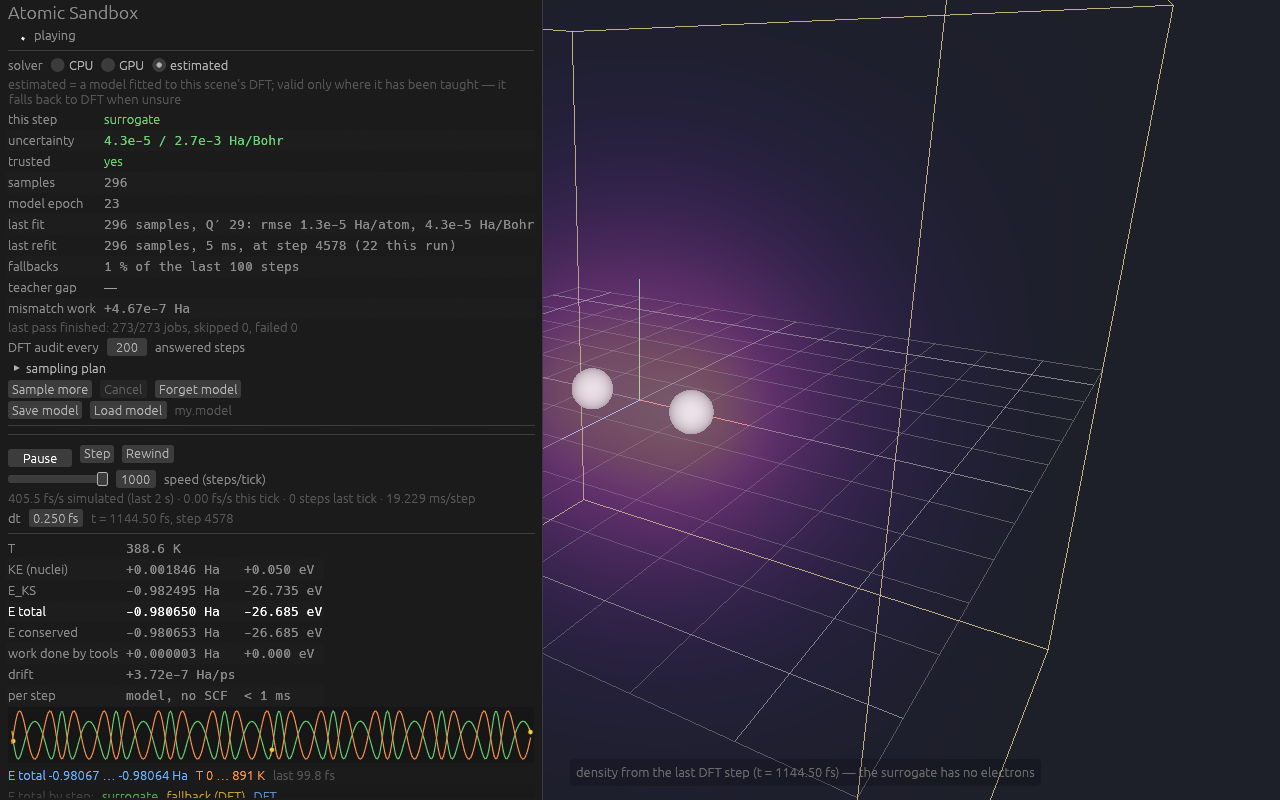
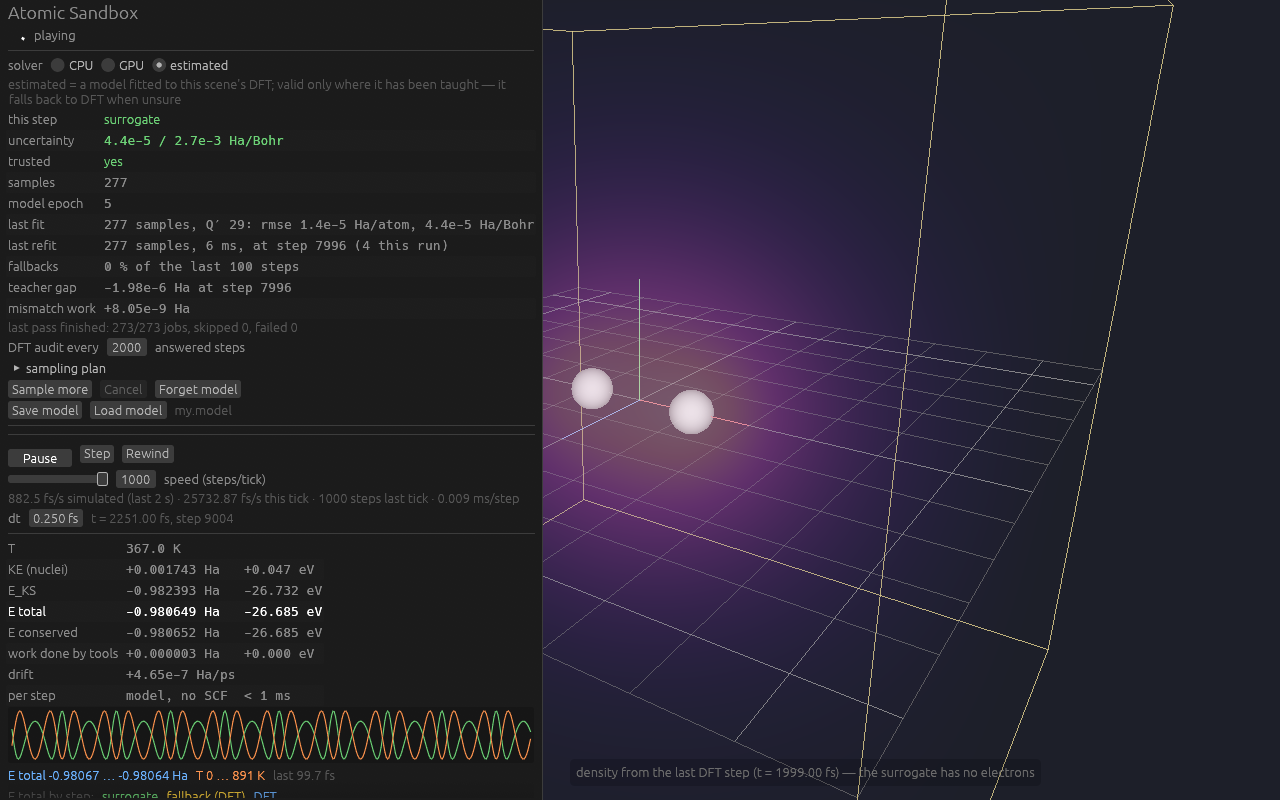
docs: Task 8 fix round 1 — audit default 2000, pacing / watchable / smooth motion in the README controls, checklist rows, screenshot re-shot while playing

diff --git a/README.md b/README.md
@@ -20,7 +20,7 @@ The sandbox now **moves**: the nuclei are classical particles pushed by the Kohn
 
 ![H₂ vibrating: the panel's sparkline shows E total and T over the last 50 fs](docs/images/dynamics_h2_vibration.png)
 
-**Estimated mode (M5).** Pick **estimated** as the solver and the viewer first *teaches* a surrogate on the scene: a sampling pass (about half a minute for H₂ at 49³ — 273 DFT solves: isolated-atom references, random perturbations, a bond scan and a hot MD burst) fits a linear model of the energy with a Bayesian uncertainty. From then on each MD step asks the model; when its uncertainty is above the threshold, or the geometry is outside what it was taught, the step goes to DFT instead (a **fallback**, shown amber), and that answer becomes a new training sample — the model learns as you play. The validation suite (`crates/validate/tests/surrogate.rs`) measures it against its teacher: the H₂ vibration frequency within 7e-6 of the DFT-MD value, energies within 2.5e-6 Ha and forces within 2e-5 Ha/Bohr (rms) on fresh geometries, and an active-learning run from nothing that needs only 38 DFT calls in 300 steps. The model alone runs at **10⁵ steps/s** against ~10 DFT steps/s. In the viewer one DFT **audit** every 200 answered steps (a safety check: the teacher answers and the gap is compared) sets the pace — ≈ 300–400 fs/s at the default; raise the audit interval to 2000 for ≈ 3300 fs/s, or switch audits off (unsafe) for ≈ 30 000 fs/s (1.2e5 steps/s), all with the window at full frame rate (p95 frame interval 5 ms). A surrogate step has no electrons, so the cloud you see is the last DFT density, drawn faded and labelled with its time.
+**Estimated mode (M5).** Pick **estimated** as the solver and the viewer first *teaches* a surrogate on the scene: a sampling pass (about half a minute for H₂ at 49³ — 273 DFT solves: isolated-atom references, random perturbations, a bond scan and a hot MD burst) fits a linear model of the energy with a Bayesian uncertainty. From then on each MD step asks the model; when its uncertainty is above the threshold, or the geometry is outside what it was taught, the step goes to DFT instead (a **fallback**, shown amber), and that answer becomes a new training sample — the model learns as you play. The validation suite (`crates/validate/tests/surrogate.rs`) measures it against its teacher: the H₂ vibration frequency within 7e-6 of the DFT-MD value, energies within 2.5e-6 Ha and forces within 2e-5 Ha/Bohr (rms) on fresh geometries, and an active-learning run from nothing that needs only 38 DFT calls in 300 steps. The model alone runs at **10⁵ steps/s** against ~10 DFT steps/s. In the viewer one DFT **audit** every 2000 answered steps (a safety check: the teacher answers and the gap is compared; the interim default — at 200 it was ≈ 300–400 fs/s) sets the pace: ≈ 3300 fs/s in the window (4 000 fs/s headless at 41³); switching audits off (unsafe) gives ≈ 30 000 fs/s (1.2e5 steps/s), all with the window at full frame rate (p95 frame interval 5 ms). A surrogate step has no electrons, so the cloud you see is the last DFT density, drawn faded and labelled with its time.
 
 ![Estimated H₂: the model answers (green), the sparkline is coloured by who answered each step, the cloud is the last DFT density](docs/images/surrogate_h2.png)
 
@@ -34,7 +34,7 @@ Requirements: Rust (stable, 1.99 or newer), a Vulkan/DX12/Metal-capable GPU for 
 cargo run -p app --release
 ```
 
-Options: `-- --preset h2o` (presets: `h`, `h2`, `he`, `lih`, `h2o`), `-- --backend cpu` (the f64 reference: one MD step takes seconds), `-- --estimated` (start on the estimated solver: its sampling pass begins at once), `-- --speed 1000` (the steps-per-tick slider's start value), `-- --audit 2000` (the estimated solver's DFT audit interval; default 200, 0 = never). Always build `--release`; debug builds are far too slow for the solver.
+Options: `-- --preset h2o` (presets: `h`, `h2`, `he`, `lih`, `h2o`), `-- --backend cpu` (the f64 reference: one MD step takes seconds), `-- --estimated` (start on the estimated solver: its sampling pass begins at once), `-- --speed 1000` (the steps-per-tick slider's start value), `-- --audit 200` (the estimated solver's DFT audit interval; default 2000, 0 = never). Always build `--release`; debug builds are far too slow for the solver.
 
 ### Controls
 
@@ -48,19 +48,19 @@ Options: `-- --preset h2o` (presets: `h`, `h2`, `he`, `lih`, `h2o`), `-- --backe
 | Remove an atom | select it, press **Delete** (also while playing) |
 | Atom card | selecting an atom opens a labelled Bohr-style schematic (protons, neutrons, electron shells) at the top right — a diagram, not the simulation |
 | Play / pause | **Play** button or **Space**; **Step** advances one time step; **Rewind** reverses every velocity (an undisturbed trajectory retraces itself) |
-| Speed and time step | **speed (steps/tick)** slider, 1–1000 steps per ≈16 ms tick (the panel shows the measured fs/s; one DFT step usually fills a tick); **dt** in fs, default 0.25, with a warning above 0.5 |
+| Speed and time step | **speed (steps/tick)** slider, 1–1000 steps per ≈16 ms tick: a tick that finishes early waits out its 16 ms, so a low speed is a slow run; 1000 means as fast as possible (the panel shows the measured fs/s over the last 2 s; one DFT step usually fills a tick). Above ~30 fs/s a 10 fs bond vibration is faster than the frame rate — you see a shimmer, not a swing: **watchable** sets the speed so one vibration takes ≈ 0.5 s. **dt** in fs, default 0.25, with a warning above 0.5 |
 | Hold an atom | select it, tick **pinned** (a blue square marks it) |
 | Temperature | **thermostat** (Bussi CSVR) with target T and coupling time τ; switching it on with the atoms at rest gives them Maxwell–Boltzmann velocities first |
 | Gravity hook | **uniform acceleration (gravity hook)**: **g = 9.8 m/s² (−y)** or **off**; an acceleration on every nucleus, invisible at atomic scale, by design |
 | COM correction | on by default: removes the grid's small spurious net force so a molecule does not wander off |
 | Readouts | T, **KE (nuclei)**, **E_KS**, **E total**, **E conserved** and the **work done by tools** (Ha and eV), drift in Ha/ps (amber above 1e-4, red above 1e-3), sim time, SCF steps per MD step (**per step**), a sparkline of E total and T; a warning when a nucleus nears the box face; a nucleus closer than 3 grid steps to a face pauses the run with an error, since the electrons cannot follow it there |
 | Solver | CPU / GPU / **estimated** radio (switching restarts the run, paused; leaving estimated and coming back keeps its model for the session); charge, spin multiplicity, nuclear smearing σ, grid size and spacing (these pause the run and restart its time) |
-| Estimated solver | readouts: who answered this step (**surrogate** green, **fallback** amber, **DFT** blue), the model's force uncertainty against its threshold, **trusted** yes/no with the reason when not (e.g. too few samples, or a training residual above the accuracy it claims), samples, model epoch, last fit (rmse), fallbacks over the last 100 steps, the teacher gap (DFT − model energy on the last fallback) and the booked force-mismatch work; the sparkline colours E total by source; **DFT audit every** n answered steps (200 by default; larger is faster and checks less, 0 = never, flagged unsafe) |
+| Estimated solver | readouts: who answered this step (**surrogate** green, **fallback** amber, **DFT** blue), the model's force uncertainty against its threshold, **trusted** yes/no with the reason when not (e.g. too few samples, or a training residual above the accuracy it claims), samples, model epoch, last fit (rmse), fallbacks over the last 100 steps, the teacher gap (DFT − model energy on the most recent fallback or audit, with its step) and the booked force-mismatch work; the sparkline colours E total by source; **DFT audit every** n answered steps (2000 by default; larger is faster and checks less, 0 = never, flagged unsafe) |
 | Sampling pass | starts by itself when estimated has no model; **sampling plan** (perturbations, σ_r, hot-burst steps and T, scan points per pair, seed), a progress bar with stage, last energy and skipped/failed counts, **Cancel** (keeps and fits what it has), **Sample more** (another pass over the current scene, new seed). The dynamics stay paused while it runs; editing is allowed |
 | Model files | **Save model** writes `<scene>.model` next to the scene file (`my.scene` → `my.model`); **Load model** reads it — refused unless it was trained on this scene's grid, σ, charge, multiplicity and teacher; loading a scene in estimated mode also loads its `.model` when there is one; **Forget model** (click twice within 4 s) drops the model and its samples |
-| View | volume or isosurface density, gamma / opacity / iso sliders; cell box, floor grid, axes, placement plane, 1 Bohr or 1 Å spacing |
+| View | volume or isosurface density, gamma / opacity / iso sliders; cell box, floor grid, axes, placement plane, 1 Bohr or 1 Å spacing; **smooth motion** (on by default) draws the nuclei between the last two snapshots, one publish interval behind, so they glide at the frame rate instead of jumping at the simulation's tick rate |
 
-Things to try: switch the solver to **estimated** on H₂, let it sample for about half a minute, set the speed to 1000 and press Play — the bond vibrates at hundreds of fs per second (thousands with `--audit 2000`), the sparkline green with an amber dot at each audit; then drag one H far away with the Select tool and watch the fallback light up amber while the model learns the new geometry from each DFT answer (the samples count climbs, the epoch moves, and the amber turns green again once it has seen enough). Press Play on H₂ and watch E total stay flat while T swings between 0 and ~900 K; tug one H with the Select tool while it vibrates; switch the thermostat on at 300 K; stretch the H₂ bond and watch the energy curve and the density neck split; compare the symmetric H₂ cloud with lopsided LiH (charge transfer with nothing told about electronegativity); build water from an O and two H (at the default 0.25 Bohr grid the smeared oxygen makes the relaxed molecule nearly linear — a resolution artefact worth seeing for yourself; the real 104.5° bend needs a finer grid or pseudopotentials); push two He atoms together and watch them refuse to bond; make HeH⁺ (charge +1) and watch them bond.
+Things to try: switch the solver to **estimated** on H₂, let it sample for about half a minute, set the speed to 1000 and press Play — the bond vibrates at thousands of fs per second, the sparkline green with an amber dot at each audit; then drag one H far away with the Select tool and watch the fallback light up amber while the model learns the new geometry from each DFT answer (the samples count climbs, the epoch moves, and the amber turns green again once it has seen enough). Press Play on H₂ and watch E total stay flat while T swings between 0 and ~900 K; tug one H with the Select tool while it vibrates; switch the thermostat on at 300 K; stretch the H₂ bond and watch the energy curve and the density neck split; compare the symmetric H₂ cloud with lopsided LiH (charge transfer with nothing told about electronegativity); build water from an O and two H (at the default 0.25 Bohr grid the smeared oxygen makes the relaxed molecule nearly linear — a resolution artefact worth seeing for yourself; the real 104.5° bend needs a finer grid or pseudopotentials); push two He atoms together and watch them refuse to bond; make HeH⁺ (charge +1) and watch them bond.
 
 ## Physics, honestly
 

diff --git a/docs/superpowers/notes/2026-10-13-m2-viewer-checklist.md b/docs/superpowers/notes/2026-10-13-m2-viewer-checklist.md
@@ -102,7 +102,7 @@ test" = `cargo test -p app --release`.
 |---|---|---|
 | Estimated with no model starts a sampling pass; Play is disabled while it runs; progress bar, stage, last energy, skipped/failed | In-window + worker test | H₂ 49³, default plan: 273/273 jobs in ≈ 33 s (four sessions: 32–35 progress lines at 1/s), 0 skipped, 0 failed, trusted at the end (273 samples, Q′ 29). The capture shows "sampling the teacher: hot burst 128/273", the bar and the paused dynamics. `enabling_estimated_without_a_model_starts_a_sampling_pass` (41³, short plan: 83 jobs in 10 s, Play refused with the driver's message, progress monotone) |
 | The pass does not unpause anything | In-window | session 3: idle snapshot after the pass, nothing played until the posted Space |
-| Play after the pass: surrogate answers, fs/s | In-window | speed 1000: **≈ 300 fs/s** at the default audit 200 (window; 410 headless), **≈ 3300 fs/s** with `--audit 2000`, **≈ 30 000 fs/s (1.2e5 steps/s)** with `--audit 0`. Worker test: 199/200 surrogate steps, 25 000 fs/s vs 3.4 fs/s GPU DFT (×7300), audits on (200: the 200 steps contain at most one) |
+| Play after the pass: surrogate answers, fs/s | In-window | speed 1000: **≈ 300 fs/s** at audit 200 (the original default; 410 headless), **≈ 3300 fs/s** at 2000 (the default since fix round 1, ruling S14), **≈ 30 000 fs/s (1.2e5 steps/s)** with `--audit 0`. Worker test (fix round 1: Δsim/Δwall over 3 s, not a per-tick median): 200/200 surrogate steps, 4 065 fs/s at the default vs 3.95 fs/s GPU DFT (×1030); audits off 29 900 fs/s (×7600) |
 | Frame time while the surrogate plays | In-window | interval p50 4.2 ms, p95 4.7–6.0 ms, max 5.5–13.7 ms per 5 s window, at every audit setting |
 | Readouts: source badge, uncertainty vs threshold, trusted, samples, epoch, last fit, last refit, fallbacks, teacher gap, mismatch work | In-window (captures) | e.g. "surrogate", 3.9e-5 / 4.9e-3 Ha/Bohr, trusted yes, 350 samples, epoch 77, rmse 1.2e-5 Ha/atom / 3.9e-5 Ha/Bohr, refit 22 ms; drift ±4e-7 Ha/ps |
 | Untrusted reason shown | Worker test (by reading) + capture | "no model yet" before the pass; at 33³ the pass ends untrusted with "max training energy residual 2.7e-3 > 1.0e-3 Ha/atom" (measured while writing the tests: why they run at 41³) |
@@ -113,5 +113,9 @@ test" = `cargo test -p app --release`.
 | Pause / Cancel during a pass | Worker test | `pause_and_cancel_abort_a_sampling_solve_promptly` (H₂O 97³): Pause → snapshot in 20 ms, the pass continues; Cancel → cancelled pass in 39 ms |
 | Save / Load model, `<scene>.model`, provenance refusal | Worker test | `model_sidecar_saves_and_loads_with_the_scene`: saved, a new worker restores 83 samples and the identical fit, first step Surrogate (0.05 ms); a 33³ worker refuses the 41³ file and starts no pass |
 | estimated → GPU → estimated keeps the model | Viewer test | `estimated_radio_…_keeps_the_model_across_a_switch`: the session autosave restores 84 samples and the fit, no new pass |
-| Forget model (two clicks within 4 s), Sample more, audit field, sampling-plan fields, pin / thermostat under the surrogate | Code reading only | need a mouse; re-check by hand. Pins and the thermostat are driver features independent of the provider (M4 tests) |
+| Forget model (two clicks within 4 s), Sample more, audit field, sampling-plan fields, pin / thermostat under the surrogate | Code reading only | need a mouse; re-check by hand. Pins and the thermostat are driver features independent of the provider (M4 tests). The first pass starts at once with the panel's plan when estimated is picked (brief test 1); edit the plan by Cancel → change → Start |
+| Fix round 1: smooth motion (nuclei interpolated between the last two playing snapshots) | Unit test + in-window (frame rate only) | `interpolation_is_monotone_and_snaps_on_count_change`. In the window the frames stayed at p50 4.2 ms / p95 5.9–6.4 ms with it on; whether the motion *looks* smooth was not judged by eye from the log or the stills — re-check by hand (toggle "smooth motion" in the display row) |
+| Fix round 1: tick pacing and "watchable" | Worker test + unit test + in-window | speed 1 on the surrogate: 15.7 fs/s (0.25 fs per 16 ms; 8.3 before the fixed-schedule deadlines, Windows timer granularity); `the_watchable_speed_…`: 1 step/tick, 15.6 fs/s at dt 0.25 on the surrogate, 2.5 fs/s on DFT. In the window the button read "watchable (≈ 1 fs/s)" during the user's far drag (every step a 250 ms fallback) |
+| Fix round 1: a far drag in the window (user) | In-window (user) | the user dragged H₂ apart while playing on the surrogate: fallbacks 45 % of 100, T 3600 K, 250 ms/step; the refit then **untrusted** the model ("max training energy residual 8.6e-3 > 1.0e-3 Ha/atom", 322 samples) — Task 7's "one stray sample can untrust a model", now seen in a window; the panel showed the reason |
+| Fix round 1: leaving estimated never blocks the window; the session autosave survives quick toggles and a refused autoload | Worker + viewer tests | `leaving_the_estimated_solver_neither_blocks_nor_loses_the_autosave` (switches during a cold 97³ evaluation: worst `run_ui` 5.2 ms, file unchanged), `a_worker_shut_down_before_ensure_model_leaves_the_autosave_alone`, the refused-autoload retire in `model_sidecar_saves_and_loads_with_the_scene` |
 | Crash seen once at start-up | In-window, not reproduced | the first `--estimated` session panicked 2 s in, while sampling, in `Surface::configure` ("Failed to wait for GPU to come idle before reconfiguring the Surface") — the resize path of `gpu::SurfaceState::resize` while the worker kept the queue busy. Four later sessions (one maximised by the user) did not hit it. Pre-existing code path; reported |
